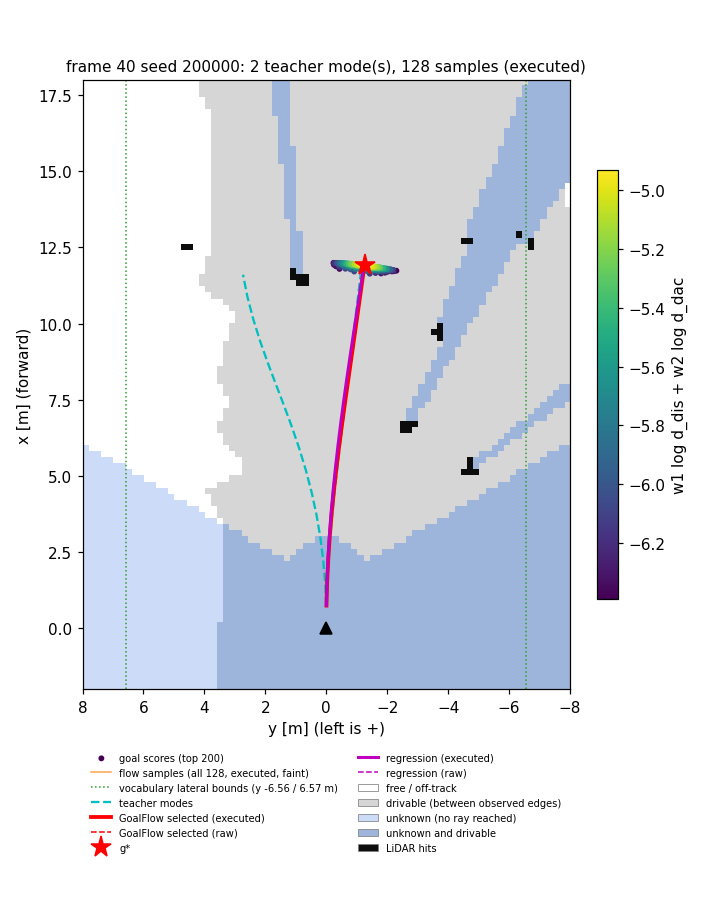
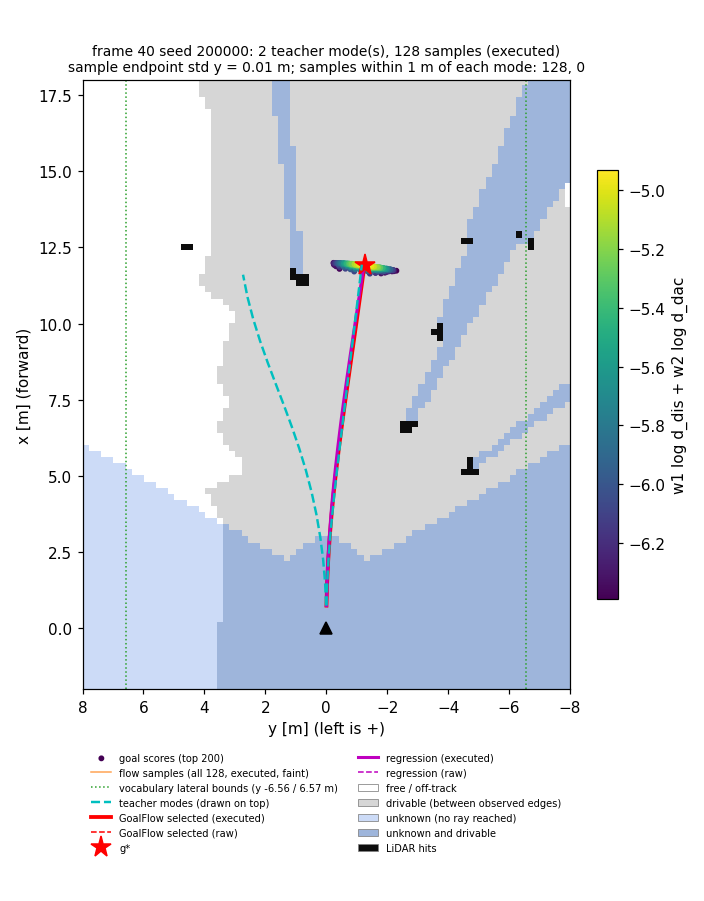
Renders: teacher modes on top, sample spread and per-mode counts in the title; scorer script: all-modes mixture, cover caveat

diff --git a/scripts/eval_goal_scorer.py b/scripts/eval_goal_scorer.py
@@ -16,7 +16,10 @@ Reported:
     goal already taken)
   * rank of the best goal near each route (within 1.0 m) in the plain and suppressed orders
   * l_dis against each route's soft target (T = 0.5 m), next to its floor (the target's entropy), and
-    against the mixture target (mean of the distinct routes' soft targets)
+    against the mixture target (mean of the distinct routes' soft targets), and (added 2026-11-25 after the
+    first run, for later runs) against the mixture over all stored modes, which is what training drew
+  Caveat: cover@k uses a 1.0 m radius per route endpoint with 1.5 m distinct-route separation, so one goal
+  halfway between two routes can cover both; the selection evaluation adds a one-to-one version.
 Validation only.
 """
 from __future__ import annotations
@@ -95,7 +98,7 @@ def main():
     # per-route records
     R = {k: [] for k in ("frame", "j", "driven", "distinct", "n_modes", "n_distinct", "nn_xy", "nn_metric",
                          "rank_plain", "rank_supp", "l_dis", "H", "end_y")}
-    Fr = {k: [] for k in {"n_modes", "n_distinct", "l_mix", "H_mix"}
+    Fr = {k: [] for k in {"n_modes", "n_distinct", "l_mix", "H_mix", "l_mix_allmodes", "H_mix_allmodes"}
           | {f"cover{s}@{k}_{w}" for s in ("", "_supp") for k in KS for w in ("all", "distinct")}}
     t0 = time.time()
     with torch.no_grad():
@@ -139,6 +142,9 @@ def main():
                 l_dis = -(tgt * logp[i][None]).sum(-1)
                 H = -(tgt * tgt.clamp_min(1e-30).log()).sum(-1)
                 mix = tgt[torch.as_tensor(dm, device=dev)].mean(0)
+                mix_all = tgt.mean(0)                    # uniform over all stored modes (= training's draw)
+                Fr["l_mix_allmodes"].append(float(-(mix_all * logp[i]).sum()))
+                Fr["H_mix_allmodes"].append(float(-(mix_all * mix_all.clamp_min(1e-30).log()).sum()))
                 R["frame"] += [int(idx[i])] * m
                 R["j"] += list(range(m))
                 R["driven"] += [j == 0 for j in range(m)]
@@ -213,6 +219,13 @@ def main():
     out["H_mix_all_frames"] = float(Fr["H_mix"].mean())
     out["l_mix_distinct_multi"] = float(Fr["l_mix"][fd].mean())
     out["H_mix_distinct_multi"] = float(Fr["H_mix"][fd].mean())
+    out["l_mix_allmodes_all_frames"] = float(Fr["l_mix_allmodes"].mean())
+    out["H_mix_allmodes_all_frames"] = float(Fr["H_mix_allmodes"].mean())
+    out["l_mix_allmodes_multi"] = float(Fr["l_mix_allmodes"][fm].mean())
+    out["H_mix_allmodes_multi"] = float(Fr["H_mix_allmodes"][fm].mean())
+    out["caveat_cover"] = ("cover@k counts a goal within 1.0 m of a route endpoint; with the 1.5 m distinct-route "
+                           "rule one goal halfway between two routes can cover both (no one-to-one matching here; "
+                           "eval_selection.py adds a one-to-one version)")
     a.out.mkdir(parents=True, exist_ok=True)
     (a.out / "goal_scorer_val.json").write_text(json.dumps(out, indent=1))
     np.savez_compressed(a.out / "goal_scorer_val_routes.npz", **R)

diff --git a/src/gfsem/viz.py b/src/gfsem/viz.py
@@ -66,7 +66,7 @@ def plot_samples(model, ds, out: Path, n: int = 6, device="cpu", reg_model=None,
         nm = int(b["n_modes"])
         for j in range(nm):
             m = b["modes"][j].numpy()
-            ax.plot(m[:, 1], m[:, 0], "c--", lw=1.5, zorder=4, label="teacher modes" if j == 0 else None)
+            ax.plot(m[:, 1], m[:, 0], "c--", lw=1.6, zorder=7, label="teacher modes (drawn on top)" if j == 0 else None)
         ax.plot(traj[:, 1], traj[:, 0], "r-", lw=2.5, zorder=5, label="GoalFlow selected (executed)")
         if traj_raw is not None:
             ax.plot(traj_raw[:, 1], traj_raw[:, 0], "r--", lw=1.0, zorder=5, label="GoalFlow selected (raw)")
@@ -83,8 +83,11 @@ def plot_samples(model, ds, out: Path, n: int = 6, device="cpu", reg_model=None,
         ax.set_ylim(-2, 18)
         ax.set_xlabel("y [m] (left is +)")
         ax.set_ylabel("x [m] (forward)")
-        ax.set_title(f"frame {int(b['idx'])} seed {int(b['seed'])}: {nm} teacher mode(s), {M} samples (executed)",
-                     fontsize=10)
+        ends = S[:, -1]
+        near = [int((np.hypot(*(ends - b["modes"][j].numpy()[-1]).T) <= 1.0).sum()) for j in range(nm)]
+        ax.set_title(f"frame {int(b['idx'])} seed {int(b['seed'])}: {nm} teacher mode(s), {len(S)} samples (executed)\n"
+                     f"sample endpoint std y = {ends[:, 1].std():.2f} m; samples within 1 m of each mode: "
+                     f"{', '.join(map(str, near))}", fontsize=9)
         h, _ = ax.get_legend_handles_labels()
         ax.legend(handles=h[:1] + [sample_handle] + h[1:] + bg_handles, loc="upper center", bbox_to_anchor=(0.5, -0.09), ncol=2, fontsize=6.5,
                   frameon=False)
